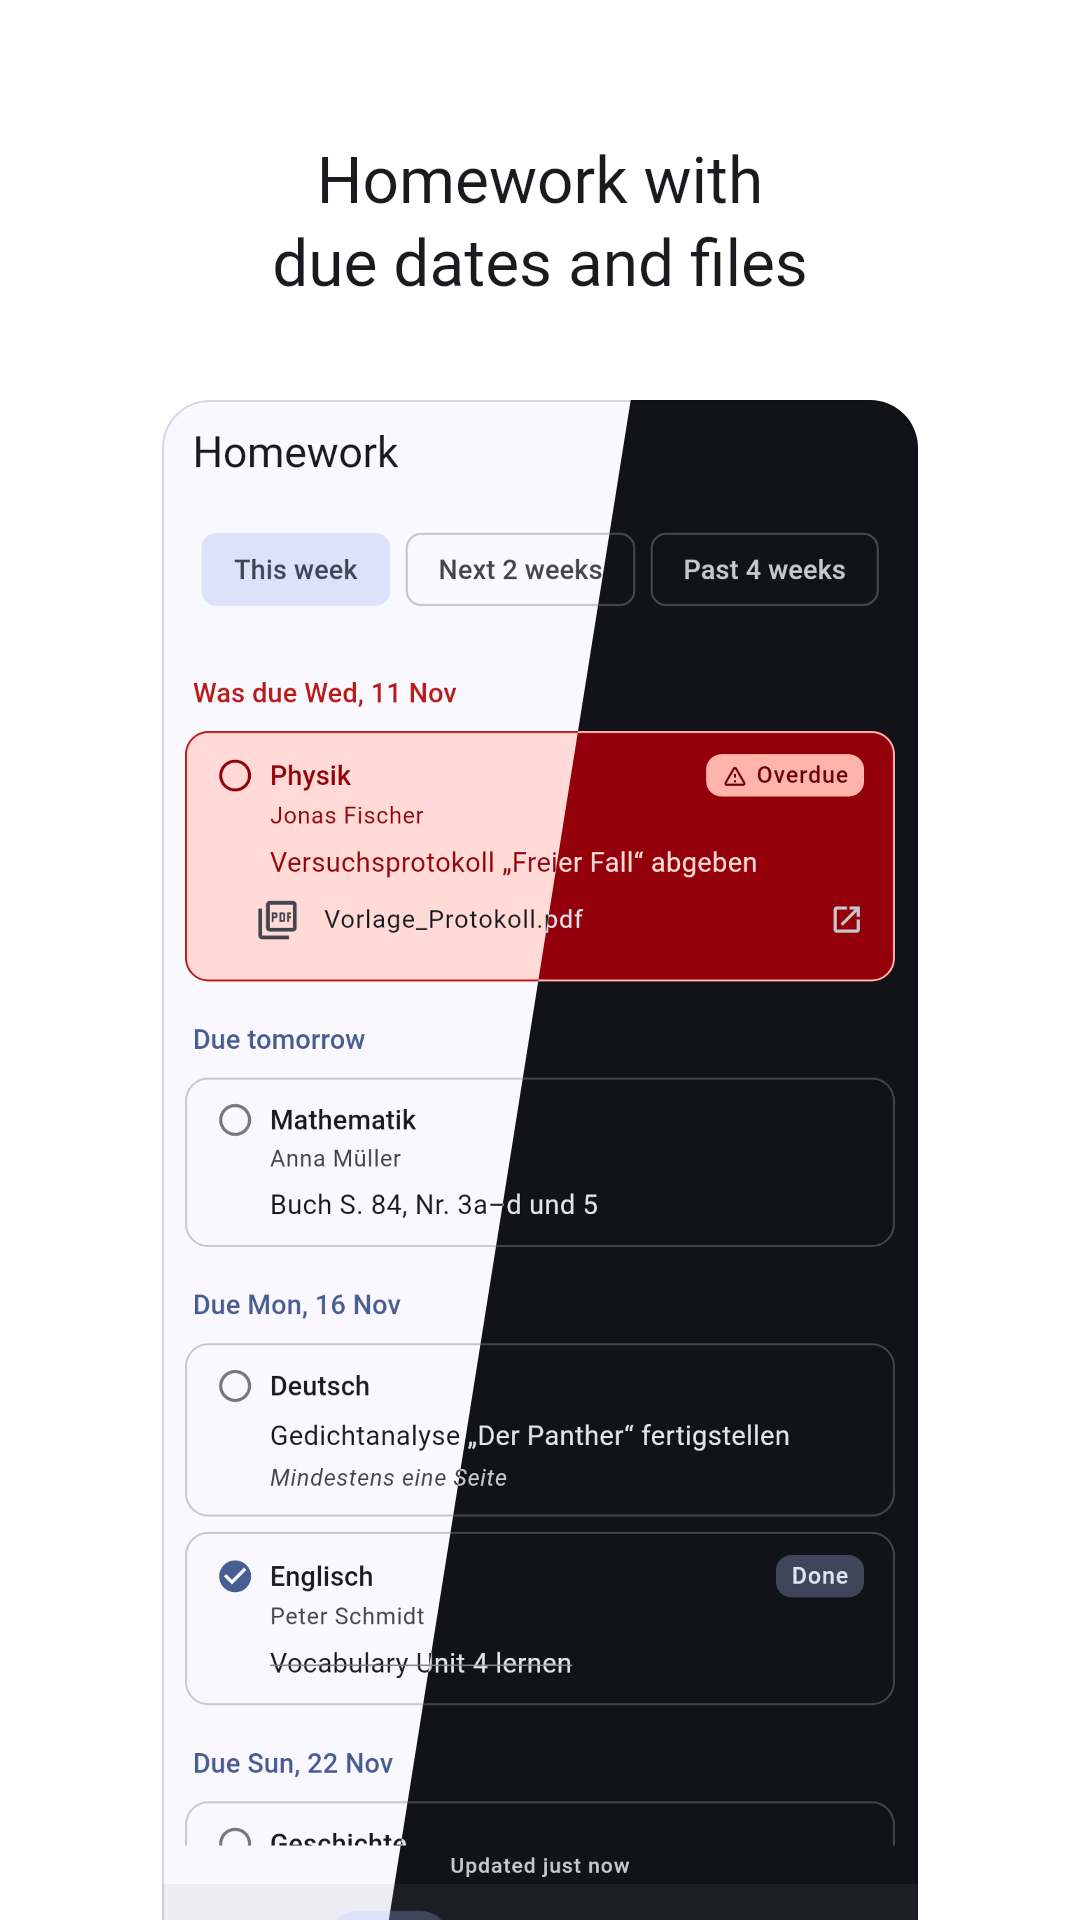
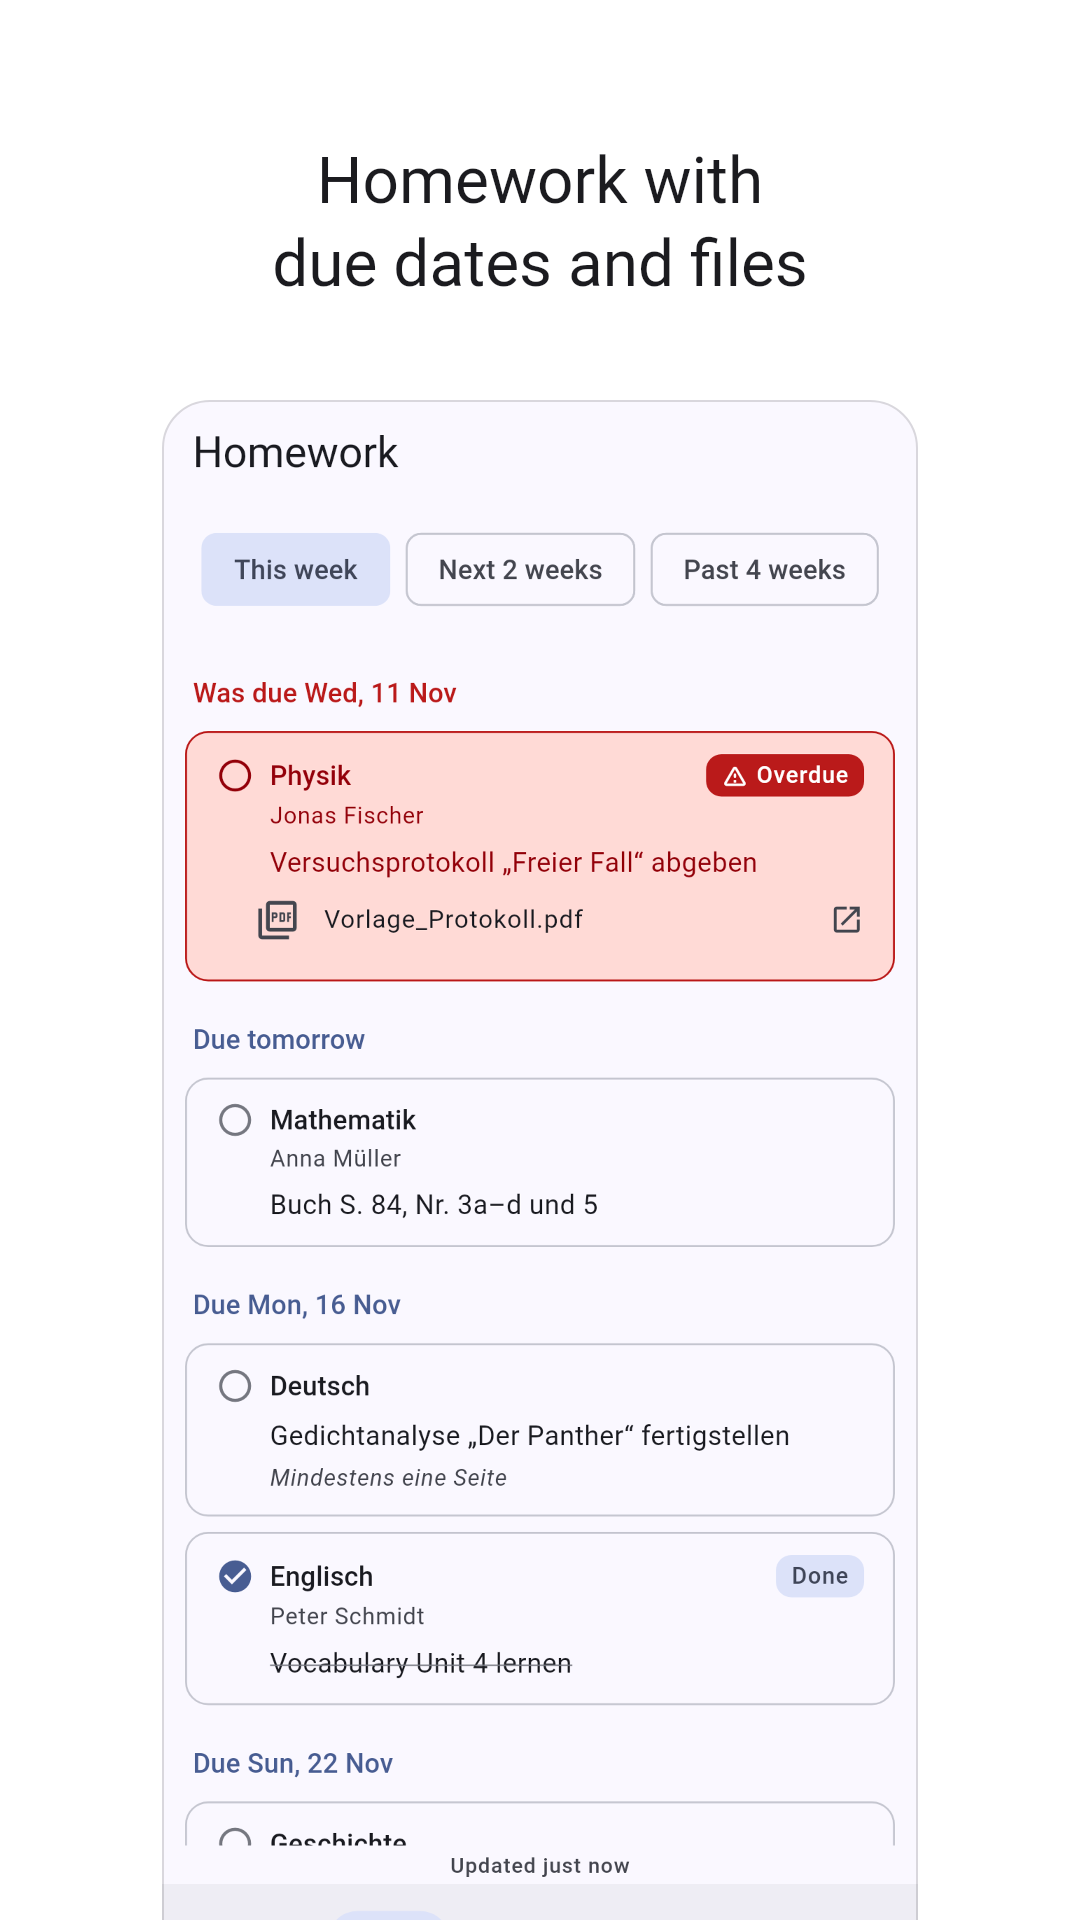
0.4.7+43: README screenshots: light/dark split only on week, day, contrast, settings (first row)

Changed region(s): [[0.3667, 0.1875, 0.8556, 1.0]]

diff --git a/tool/screenshots/screenshots_test.dart b/tool/screenshots/screenshots_test.dart
@@ -125,8 +125,8 @@ class _DarkHalf extends CustomClipper<Path> {
 }
 
 /// The store-style image: [title] above a phone showing [light] with the
-/// right part replaced by [dark].
-Widget _frame(String title, ui.Image light, ui.Image dark) {
+/// right part replaced by [dark] (if given).
+Widget _frame(String title, ui.Image light, ui.Image? dark) {
   const titleHeight = 400.0;
   const width = 756.0; // 70 % of the image
   final height = width * _phone.height / _phone.width;
@@ -193,10 +193,11 @@ Widget _frame(String title, ui.Image light, ui.Image dark) {
                 child: Stack(
                   children: [
                     shot(light),
-                    ClipPath(
-                      clipper: _DarkHalf(_out.height - titleHeight),
-                      child: shot(dark),
-                    ),
+                    if (dark != null)
+                      ClipPath(
+                        clipper: _DarkHalf(_out.height - titleHeight),
+                        child: shot(dark),
+                      ),
                   ],
                 ),
               ),
@@ -281,6 +282,7 @@ void main() {
     Widget home, {
     AccessibilitySettings Function(Brightness b) a11y = _noA11y,
     Future<void> Function(WidgetTester t)? before,
+    bool split = true,
   }) async {
     addTearDown(t.view.reset);
     final light = await render(
@@ -290,13 +292,9 @@ void main() {
       a11y(Brightness.light),
       before,
     );
-    final dark = await render(
-      t,
-      home,
-      Brightness.dark,
-      a11y(Brightness.dark),
-      before,
-    );
+    final dark = split
+        ? await render(t, home, Brightness.dark, a11y(Brightness.dark), before)
+        : null;
     t.view.physicalSize = _out;
     t.view.devicePixelRatio = 1;
     await t.pumpWidget(const SizedBox());
@@ -306,7 +304,7 @@ void main() {
       matchesGoldenFile('../../docs/screenshots/$name.png'),
     );
     light.dispose();
-    dark.dispose();
+    dark?.dispose();
   }
 
   testWidgets(
@@ -335,6 +333,7 @@ void main() {
         );
         await t.tap(cards.at(i));
       },
+      split: false,
     ),
   );
 
@@ -361,6 +360,7 @@ void main() {
       'Homework with\ndue dates and files',
       const InfoCenterScreen(),
       before: (t) => t.tap(find.text('Homework').first),
+      split: false,
     ),
   );
 
@@ -372,6 +372,7 @@ void main() {
       'All absences,\nexcused or not',
       const InfoCenterScreen(),
       before: (t) => t.tap(find.text('Absences').first),
+      split: false,
     ),
   );
 
@@ -396,6 +397,7 @@ void main() {
       'Every exam\nin one place',
       const InfoCenterScreen(),
       before: (t) => t.tap(find.text('Exams').first),
+      split: false,
     ),
   );
 

diff --git a/README.md b/README.md
@@ -28,16 +28,16 @@ timetables**.
 
 <p align="center">
   <img src="docs/screenshots/week.png" width="24%" alt="Week view with substitutions, exams and cancelled lessons">
-  <img src="docs/screenshots/lesson.png" width="24%" alt="Lesson details">
   <img src="docs/screenshots/day.png" width="24%" alt="Day view with read-aloud button">
+  <img src="docs/screenshots/contrast.png" width="24%" alt="High contrast mode">
+  <img src="docs/screenshots/settings.png" width="24%" alt="Color and text settings">
+  <img src="docs/screenshots/lesson.png" width="24%" alt="Lesson details">
   <img src="docs/screenshots/info.png" width="24%" alt="Info center: homework">
   <img src="docs/screenshots/absences.png" width="24%" alt="Info center: absences">
   <img src="docs/screenshots/exams.png" width="24%" alt="Info center: exams">
-  <img src="docs/screenshots/contrast.png" width="24%" alt="High contrast mode">
-  <img src="docs/screenshots/settings.png" width="24%" alt="Color and text settings">
 </p>
 
-<sub>Left: light mode, right: dark mode. Accessibility features are a work in progress. Demo data — made-up school and names. Regenerate with `tool/screenshots/update.sh`.</sub>
+<sub>Top row: light mode left, dark mode right. Accessibility features are a work in progress. Demo data — made-up school and names. Regenerate with `tool/screenshots/update.sh`.</sub>
 
 ## ✨ Features
 
